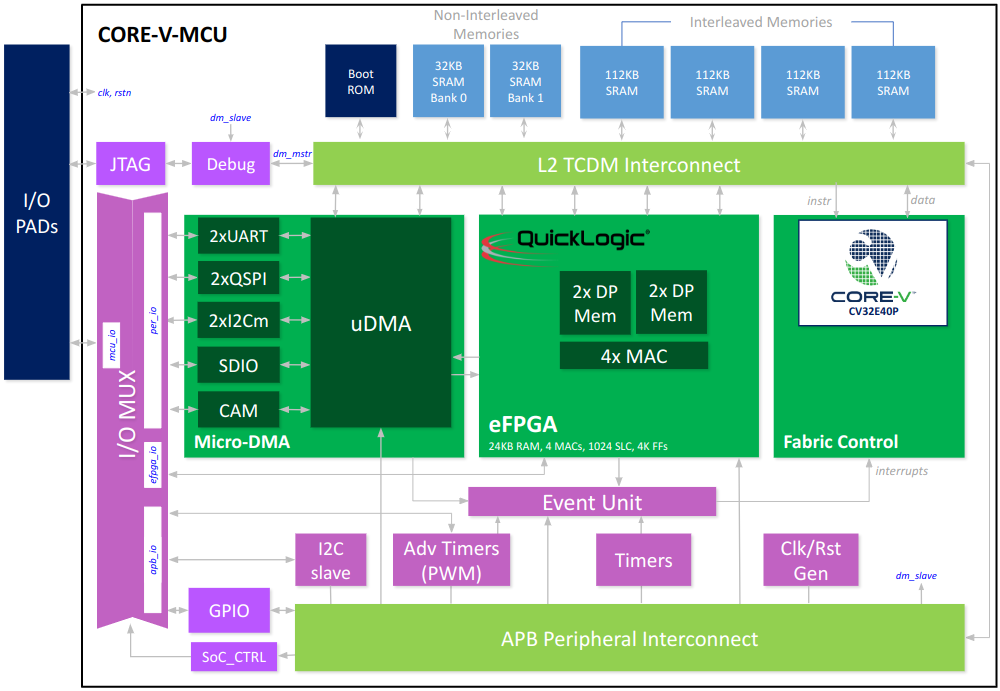
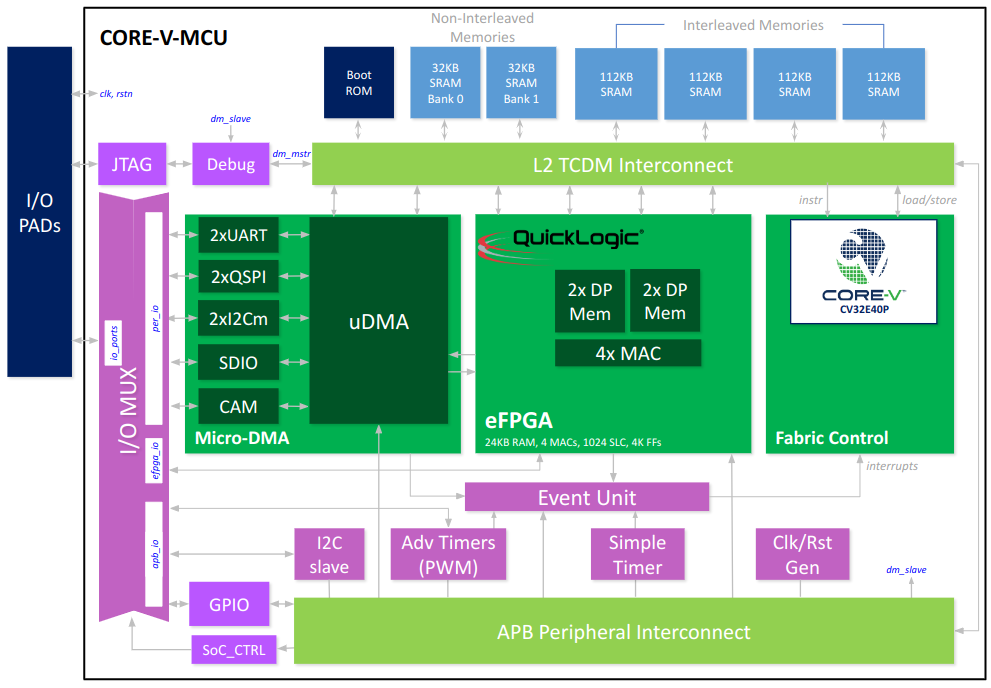
Clarify top-level IO

Changed region(s): [[0.0, 0.0, 0.999, 1.0], [0.5752, 0.3968, 0.6963, 0.5494]]

diff --git a/docs/doc-src/io_assignment_tables.rst b/docs/doc-src/io_assignment_tables.rst
@@ -20,22 +20,25 @@
 
 I/O Assignment Tables
 =====================
+
 CORE-V-MCU Integration suggests that the MCU supports nine dedicated-function ports and a set of 48 user-selectable IO ports.
-Note that only 40 of the user-selectable IO ports are available to the user.
-Also, since the number of user-selectable IO ports is less than the total number of I/O signals supported by the CORE-V-MCU's internal peripheral functions,
-an internal IO-MUX is used to connect a subset of peripheral I/O to top-level CORE-V-MCU IO ports.
-Control of the IO-MUX is via the **IO_CTRL** CSRs starting at offset 0x0400.
+However, the number of user-selectable IO ports is less than the total number of I/O signals supported by the CORE-V-MCU's internal peripheral functions.
+An internal IO-MUX is used to connect a subset of peripheral I/O to top-level CORE-V-MCU IO ports.
 The peripheral functions selectable via the IO-MUX are:
 
 * **uart0..1**: I/O signals for one of two simple Universal Asynchronous Receiver/Transmitters.
 * **qspim0..1**: I/O signals for one of two Queued Serial Peripheral Interface masters.
 * **i2cm0..1**: I/O signals for one of two Inter-Integrated Circuit bus masters.
 * **i2cs**: I/O signals for the Inter-Integrated Circuit bus slave.
-* **gpio_0..31**: One of 32 general purpose I/O signals.
-* **pwm_chX.Y**: Outputs of four PWMs supported by the module.
+* **gpio_0..31**: One of 32 general purpose I/O signals driven by the GPIO module.
+* **pwm_chX.Y**: Outputs of four PWMs supported by the Advanced Timer module.
 * **fpgaio_0..31**: One of 32 general purpose I/O signals driven by the eFPGA.
 * **cam0**: Camera (cpi) interface.
 * **sdio**: SDIO Card.
+
+Per-port control of the IO-MUX is via the **IO_CTRL[0..47]** CSRs starting at offset 0x0400.
+**Note**: only 40 of the user-selectable IO ports are available to the user.
+These are IO_[7..43] and IO_[45..47].
 
 The table below provides the mapping between the above peripheral I/O and the 40 user-selectable IO ports of the CORE-V-MCU.
 Headings have the following meaning:
@@ -43,23 +46,10 @@ Headings have the following meaning:
 * **IO_PORT**: user-selectable top-level port of core-v-mcu.sv.
 * **IO_CTRL.MUX=0..3**: the value of the MUX field of the IO_CTRL CSR for the specified IO_PORT.
 
-
 +-----------+---------------+---------------+---------------+---------------+---------------------------------------------+
 | IO_PORT   | IO_CTRL.MUX=0 | IO_CTRL.MUX=1 | IO_CTRL.MUX=2 | IO_CTRL.MUX=3 | Note                                        |
 +===========+===============+===============+===============+===============+=============================================+
-| IO_0      |               |               |               |               | IO_0 not selectable                         |
-+-----------+---------------+---------------+---------------+---------------+---------------------------------------------+
-| IO_1      |               |               |               |               | IO_1 not selectable                         |
-+-----------+---------------+---------------+---------------+---------------+---------------------------------------------+
-| IO_2      |               |               |               |               | IO_2 not selectable                         |
-+-----------+---------------+---------------+---------------+---------------+---------------------------------------------+
-| IO_3      |               |               |               |               | IO_3 not selectable                         |
-+-----------+---------------+---------------+---------------+---------------+---------------------------------------------+
-| IO_4      |               |               |               |               | IO_4 not selectable                         |
-+-----------+---------------+---------------+---------------+---------------+---------------------------------------------+
-| IO_5      |               |               |               |               | IO_5 not selectable                         |
-+-----------+---------------+---------------+---------------+---------------+---------------------------------------------+
-| IO_6      |               |               |               |               | IO_6 not selectable                         |
+| IO_0..6   | IO_0..6 are not selectable                                                                                  |
 +-----------+---------------+---------------+---------------+---------------+---------------------------------------------+
 | IO_7      | uart0_rx      |               | gpio_0        | efpgaio_0     | gpio_0 may also appear on IO_12 or IO_43    |
 +-----------+---------------+---------------+---------------+---------------+---------------------------------------------+
@@ -135,7 +125,7 @@ Headings have the following meaning:
 +-----------+---------------+---------------+---------------+---------------+---------------------------------------------+
 | IO_43     | i2cs_intr     | gpio_0        | pwm_ch3.2     | efpgaio_36    | gpio_0 may also appear on IO_7 or IO_12     |
 +-----------+---------------+---------------+---------------+---------------+---------------------------------------------+
-| IO_44     |               |               |               |               | IO_44 not selectable                        |
+| IO_44     | IO_44 not selectable                                                                                        |
 +-----------+---------------+---------------+---------------+---------------+---------------------------------------------+
 | IO_45     |               |               |               | efpgaio_37    |                                             |
 +-----------+---------------+---------------+---------------+---------------+---------------------------------------------+

diff --git a/docs/doc-src/overview.rst b/docs/doc-src/overview.rst
@@ -25,18 +25,25 @@ Welcome to the CORE-V-MCU User Manual!
 The purpose of the CORE-V-MCU is to showcase the CV32E40P (v1.0.0), the first member of the OpenHW Group's CORE-V family of RISC-V cores.
 The CORE-V-MCU also supports an embedded FPGA (eFPGA) provided by Quicklogic.
 The eFPGA is a memory mapped resource for the CV32E40P core and may also be connected to the MCU's user I/O pins.
-In addition, the CORE-V-MCU supports 512KB of on-chip SRAM and a rich set of peripherals:
+In addition, the CORE-V-MCU supports 512KB of on-chip SRAM and a rich set of I/O peripherals:
 
 * 2 UARTs
-* 2 I2C masters
 * 2 QSPI masters
-* 1 I2C slave
-* 1 CPI (Camera)
+* 2 I2C masters
 * 1 SDIO
-* 4 PWM channels
+* 1 CPI (Camera)
+* 1 GPIO unit with 32 I/O
+* 1 I2C slave
+* 1 Advanced Timer (PWM) with 4 channels
+* JTAG
+
+In addition to the above, a small set of support peripherals is available to the processor core:
+
+* SoC Controller
+* Clock and Reset Generator
+* Simple Timers
 
 The UARTs, I2C masters, QSPI, SDIO and Camera periphals transfer data to and from on-chip memory via a micro-DMA unit.
-
 With the exception of the eFPGA, all of the above are open source artifacts, permissively licensed under Soldpad 2.0.
 
 License
@@ -51,6 +58,11 @@ You may obtain a copy of the License at http://solderpad.org/licenses.
 Unless required by applicable law or agreed to in writing, software, hardware and materials distributed under this License is distributed on an “AS IS” BASIS, WITHOUT WARRANTIES OR CONDITIONS OF ANY KIND, either express or implied.
 See the License for the specific language governing permissions and limitations under the License.
 
+An Open Source Project
+----------------------
+We encourage people to get involved and contribute to this project.
+Please have a look at the *Open Source Development at the OpenHW Group* chapter of this User Manual.
+
 Standards Compliance
 --------------------
 The CORE-V-MCU processor core is the CV32E40P v1.0.0, a standards-compliant 32-bit RISC-V processor.
@@ -62,28 +74,26 @@ It follows these specifications:
 
 In addition to the above, the CORE-V-MCU supports peripherals that adhere to one or more of the following standards:
 
+- UART: defacto standard - please see the *UDMA UART* chapter of this User Manual for more information.
+- QSPI: defacto standard - please see the *UDMA QSPI Master* chapter of this User Manual for more information.
 - I2C: UM10204 - I2C-bus specification and user manual. Rev. 6 — 4 April 2014. NXP Semiconductors
-- QSPI: defacto standard - please see the *QSPI Master* chapter of this User Manual for more information.
 - SDIO: specification for the Secure Digital IO are maintained by the SD Association (https://www.sdcard.org)
 - CPI: Camera Parallel Interface
 - JTAG: 1149.7-2009 - IEEE Standard for Reduced-Pin and Enhanced-Functionality Test Access Port and Boundary-Scan Architecture
 
 
-Implementation Note
--------------------
-The first release of the CORE-V-MCU targets three physical implementations:
+Who Should Read This Document
+-----------------------------
+The source repository for this document is https://github.com/openhwgroup/core-v-mcu.git.
+This repository contains the RTL model of the CORE-V-MCU, a simple simulation testbench, plus a set of Makefiles, FuseSoC core files and scripts to generate several physical implementations:
 
+- OpenHW ASIC implemented in GF-22FDX.
 - Digilent Nexys A7 with the Xilinx Artix-7 XC7A100T FPGA.
 - Digilent Genesys 2 with the Xilinx Kintex-7 XC7K325T FPGA.
-- OpenHW ASIC implemented in GF-22FDX.
 
-As far as possible, this User Manual attempts to be agnostic to the implementation.
-Details of a specific implementation, such as device pin-outs, will be provided as needed.
+The principle audience of this document are *users* of the CORE-V-MCU ASIC or FPGA implementations, primarily software developers.
 
-An Open Source Project
-----------------------
-We encourage people to get involved and contribute to this project.
-Please have a look at the *Open Source Development at the OpenHW Group* chapter of this User Manual.
+This document is not a description of the micro-architecture of the CORE-V-MCU, nor does it describe in detail the structure of the RTL.
 
 Configuring CORE-V-MCU
 ----------------------
